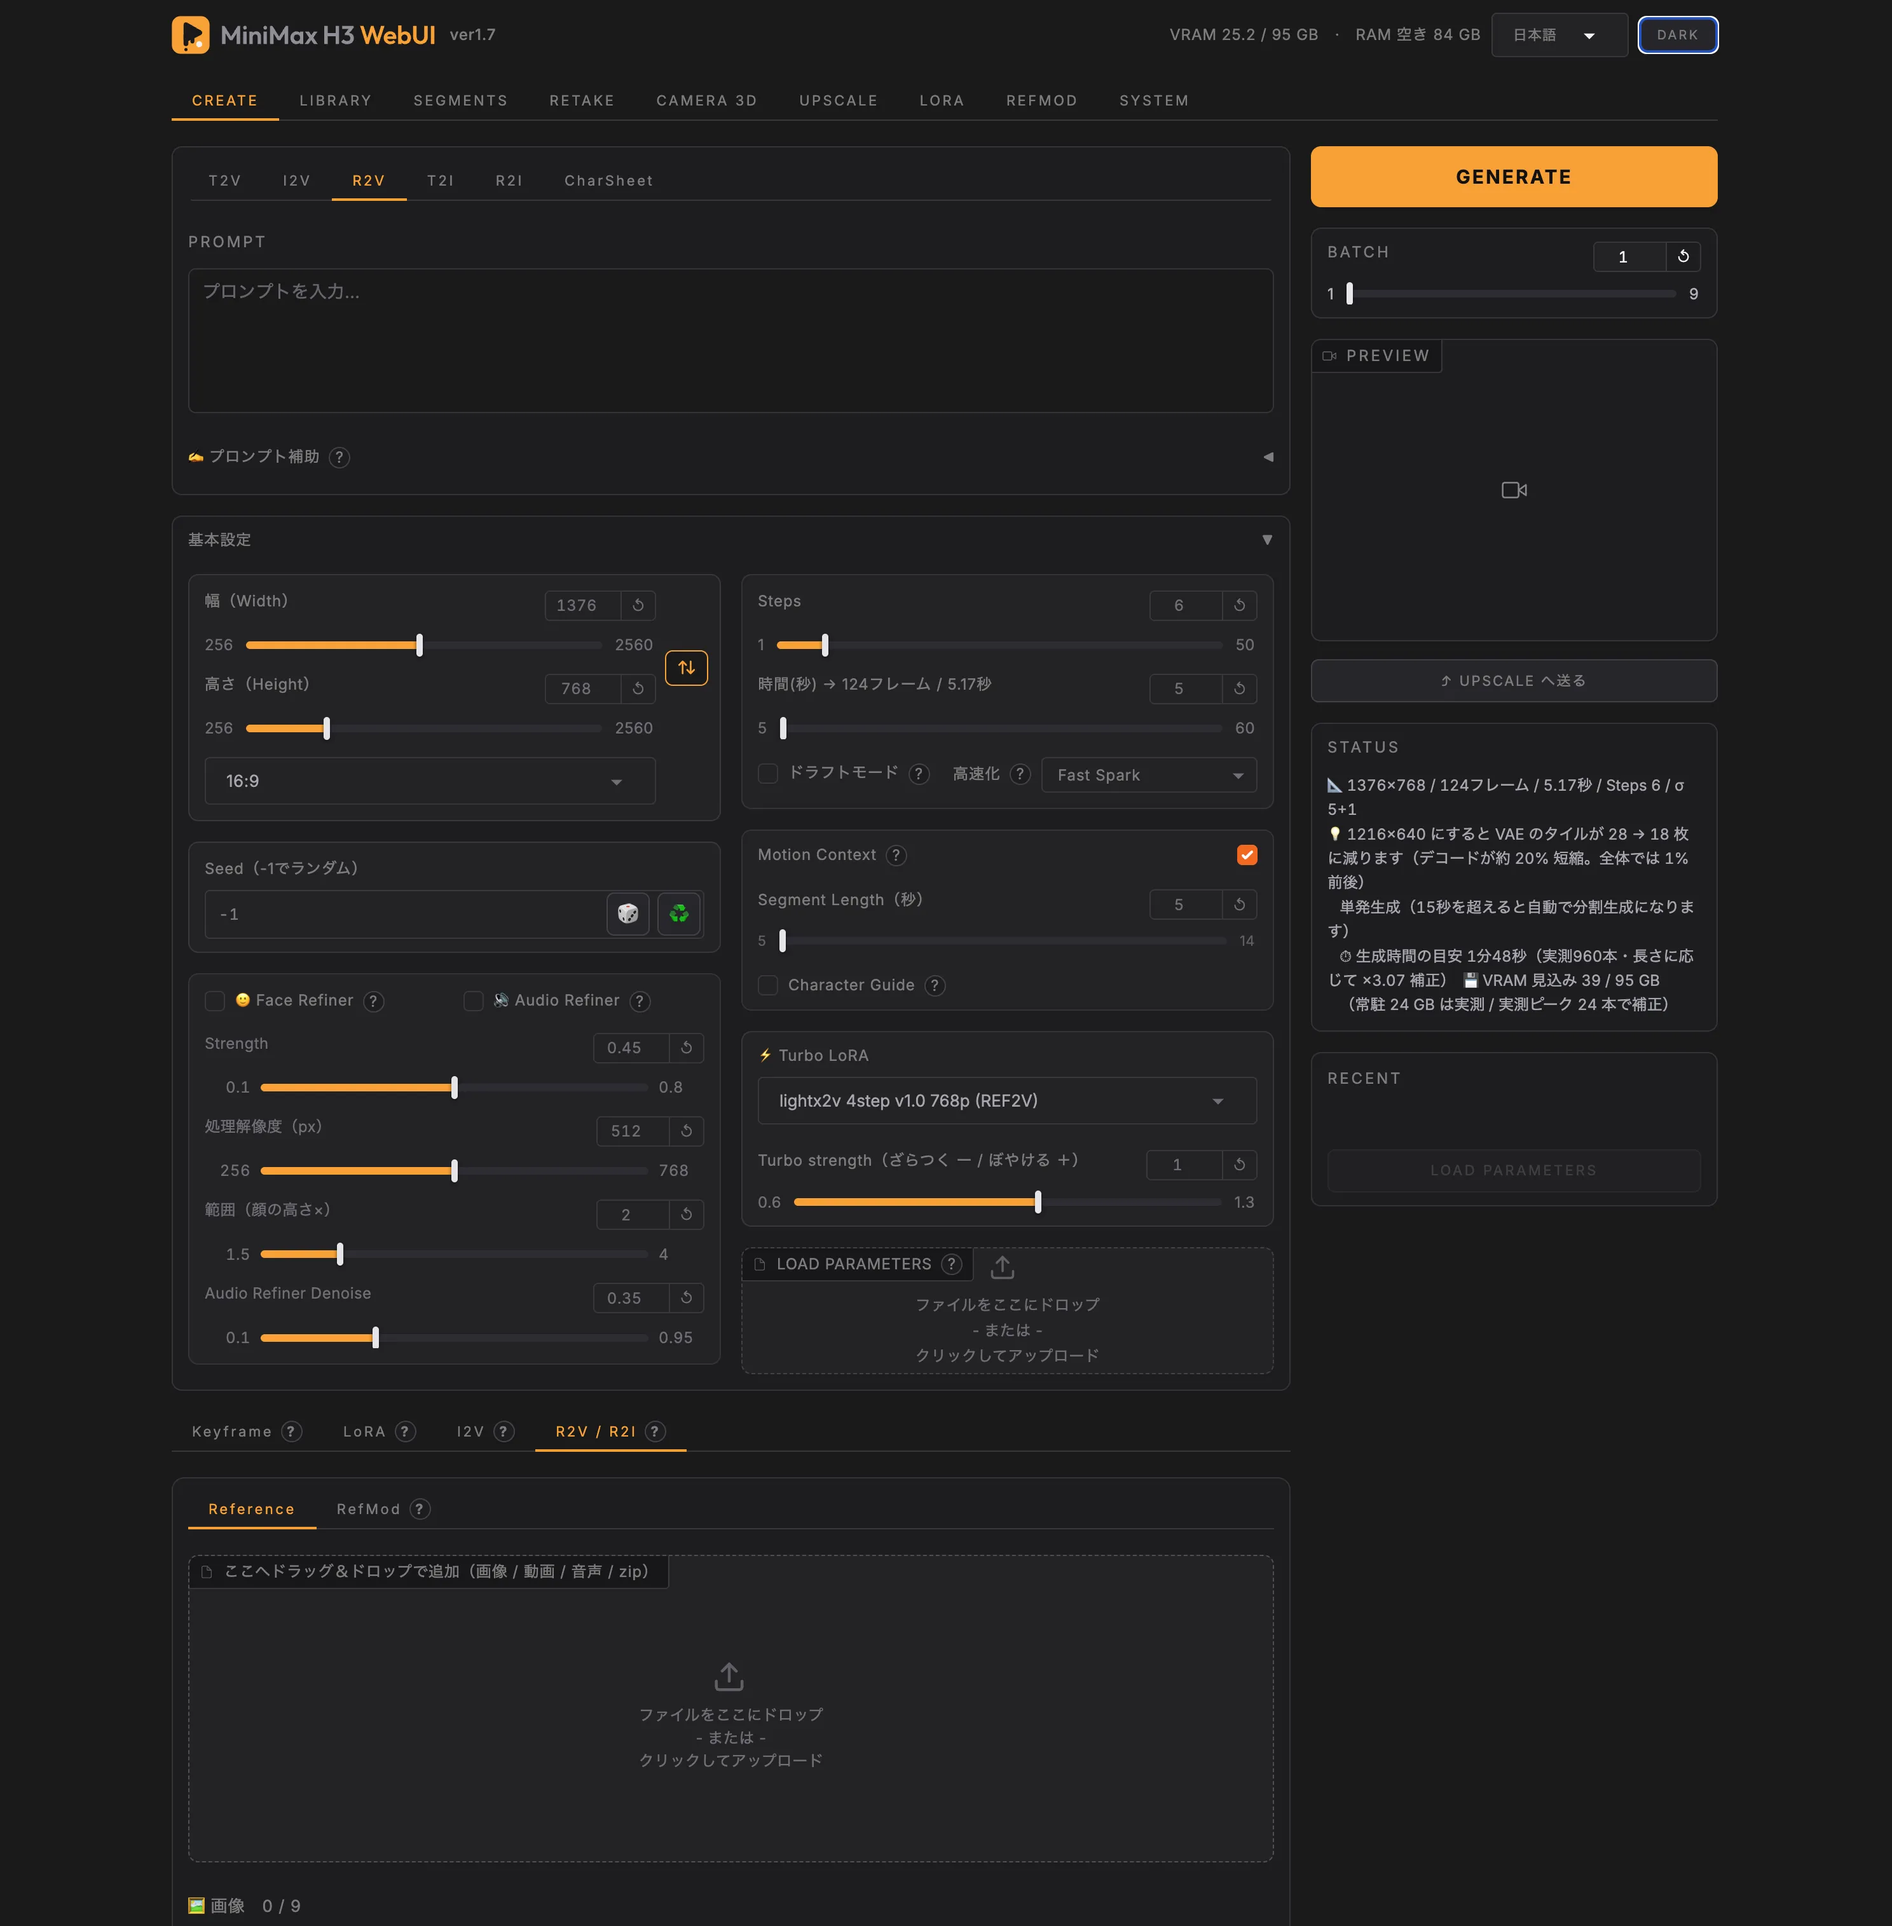
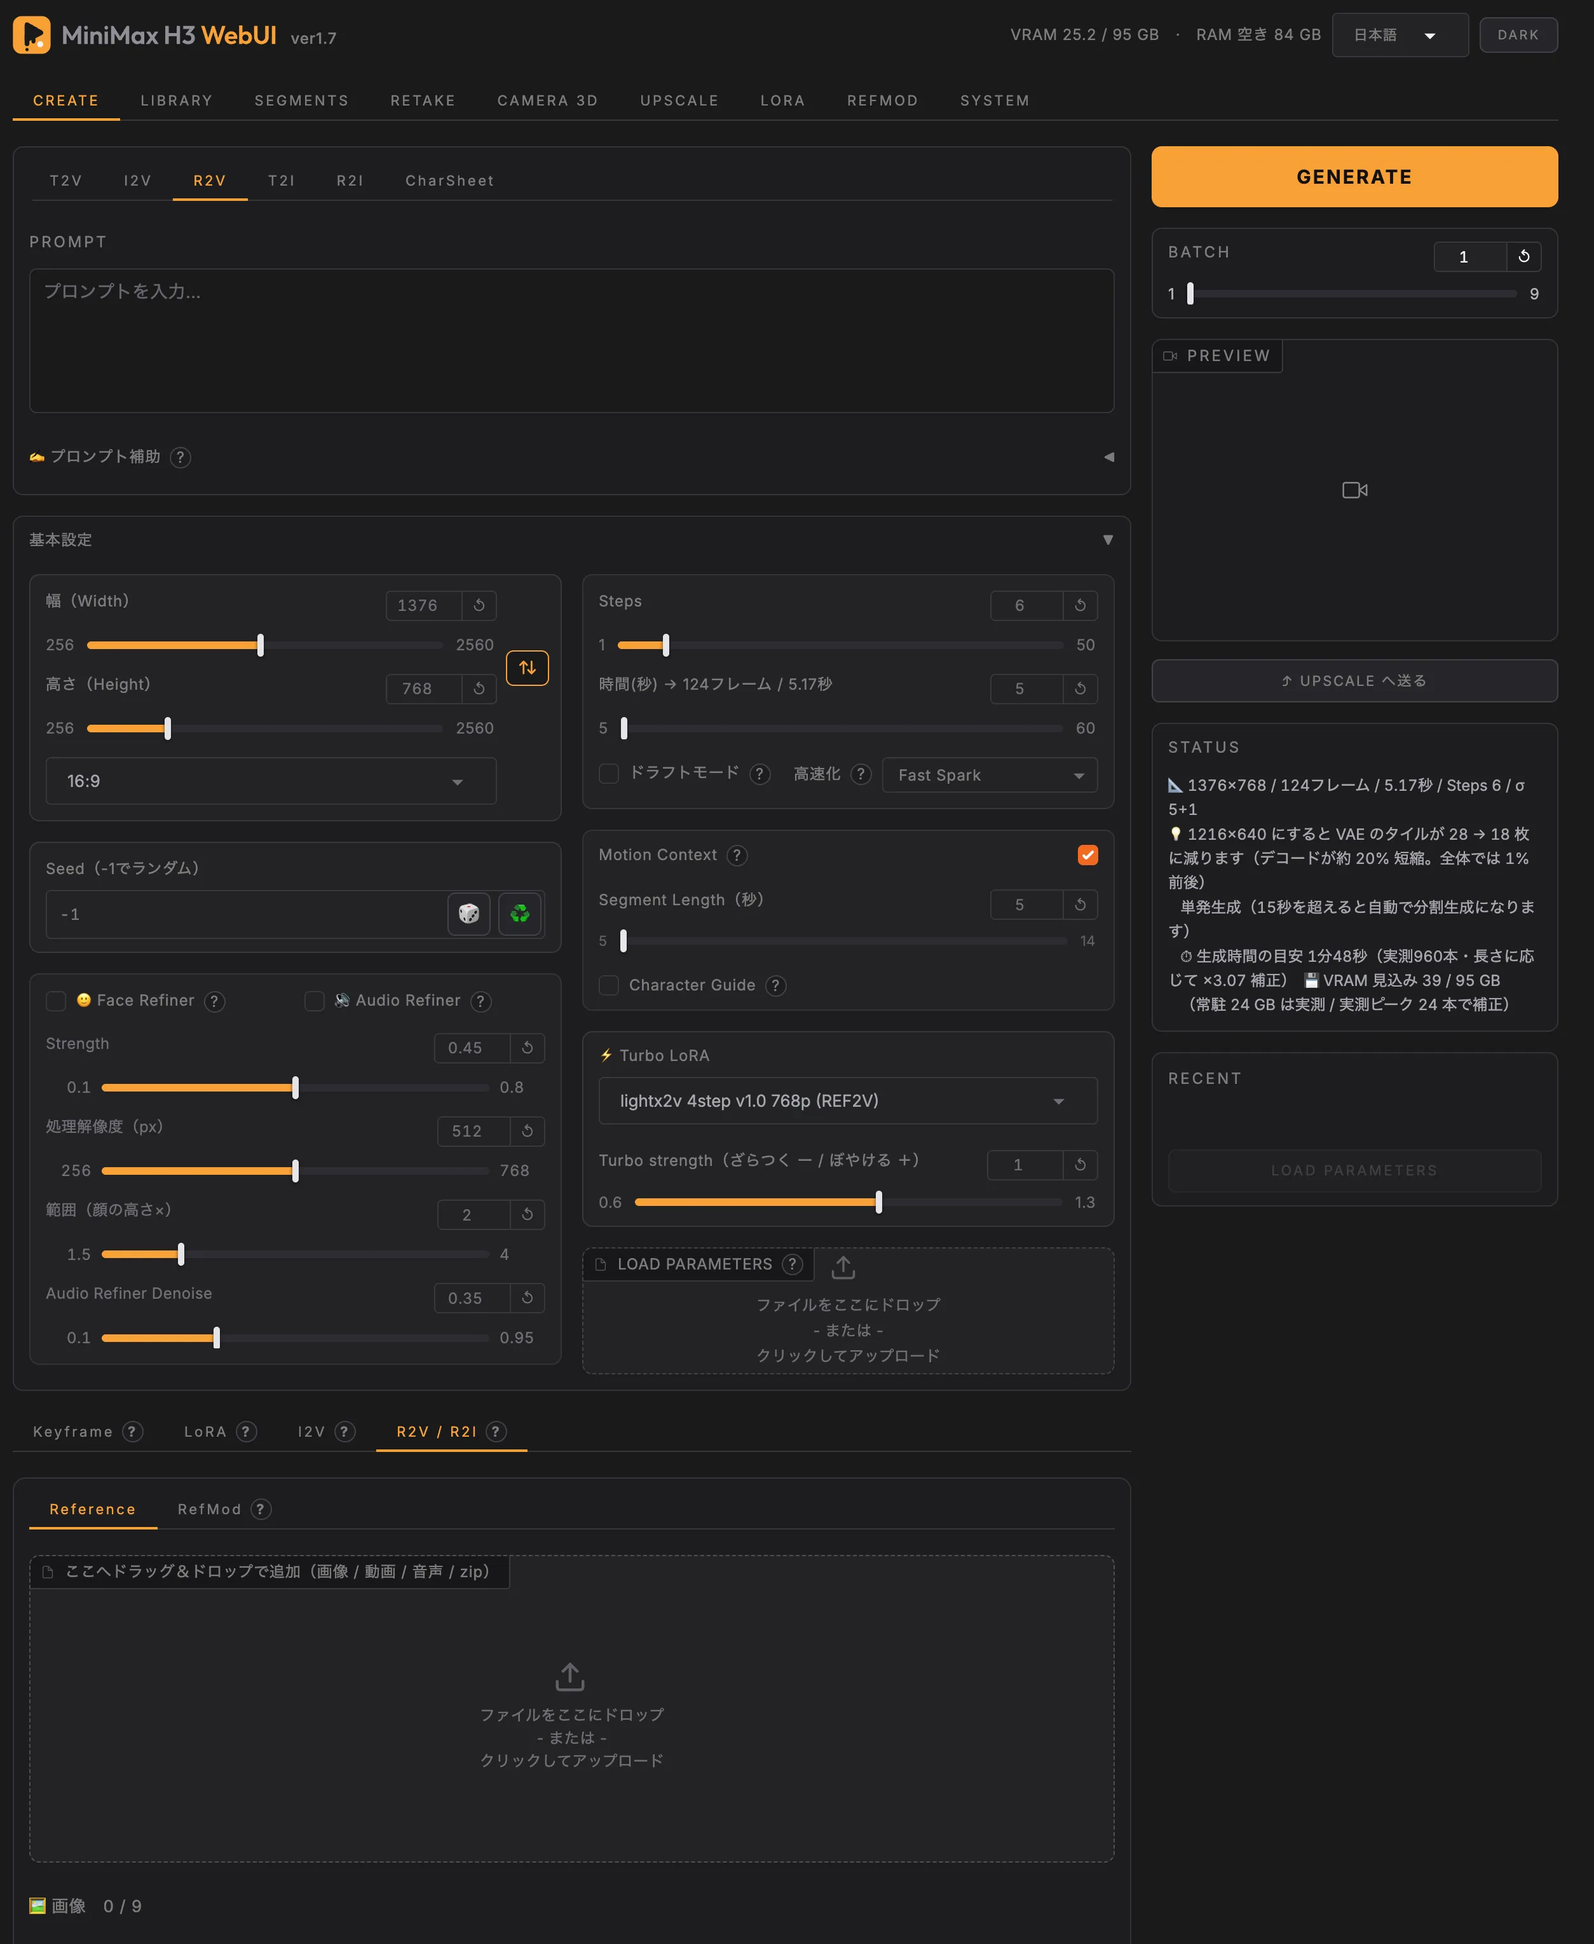
Top page: H3 WebUI card from the final screenshot (#1739)
Claude-Session: https://claude.ai/code/session_019p8B6UDgCXmE9zR3cgXJZA

diff --git a/index.html b/index.html
@@ -977,7 +977,7 @@ const LAB = [
 /* ソフトウェア（soon = 遷移しない・「準備中」表示 / ext = 外部サイトを新しいタブで開く） */
 const SOFTWARE = [
   { id:'praline', href:'#software=praline', thumb:'praline/card.svg?v=2', icon:'praline/icon.svg', kind:'THINKING ENGINE', key:'pl', soon:true, soft:true, tags:[], facts:{} },
-  { id:'h3webui', href:'https://note.com/cwonderland', ext:true, thumb:'software/h3webui/card.webp?v=1', icon:'software/h3webui/icon.svg', kind:'VIDEO AI · COLAB', key:'h3', name:'MiniMax H3 WebUI', soft:true, tags:[], facts:{} },
+  { id:'h3webui', href:'https://note.com/cwonderland', ext:true, thumb:'software/h3webui/card.webp?v=2', icon:'software/h3webui/icon.svg', kind:'VIDEO AI · COLAB', key:'h3', name:'MiniMax H3 WebUI', soft:true, tags:[], facts:{} },
 ];
 // published-title count: every game linked from this page (galleries + lab) — updates automatically when games are added
 (function () { const el = document.getElementById('stat-titles'); if (el) el.textContent = GAMES.length + ARCADE.length + LAB.length; })();   // chip order; label keys: gx.all, sub.ai, sub.classic, sub.old
